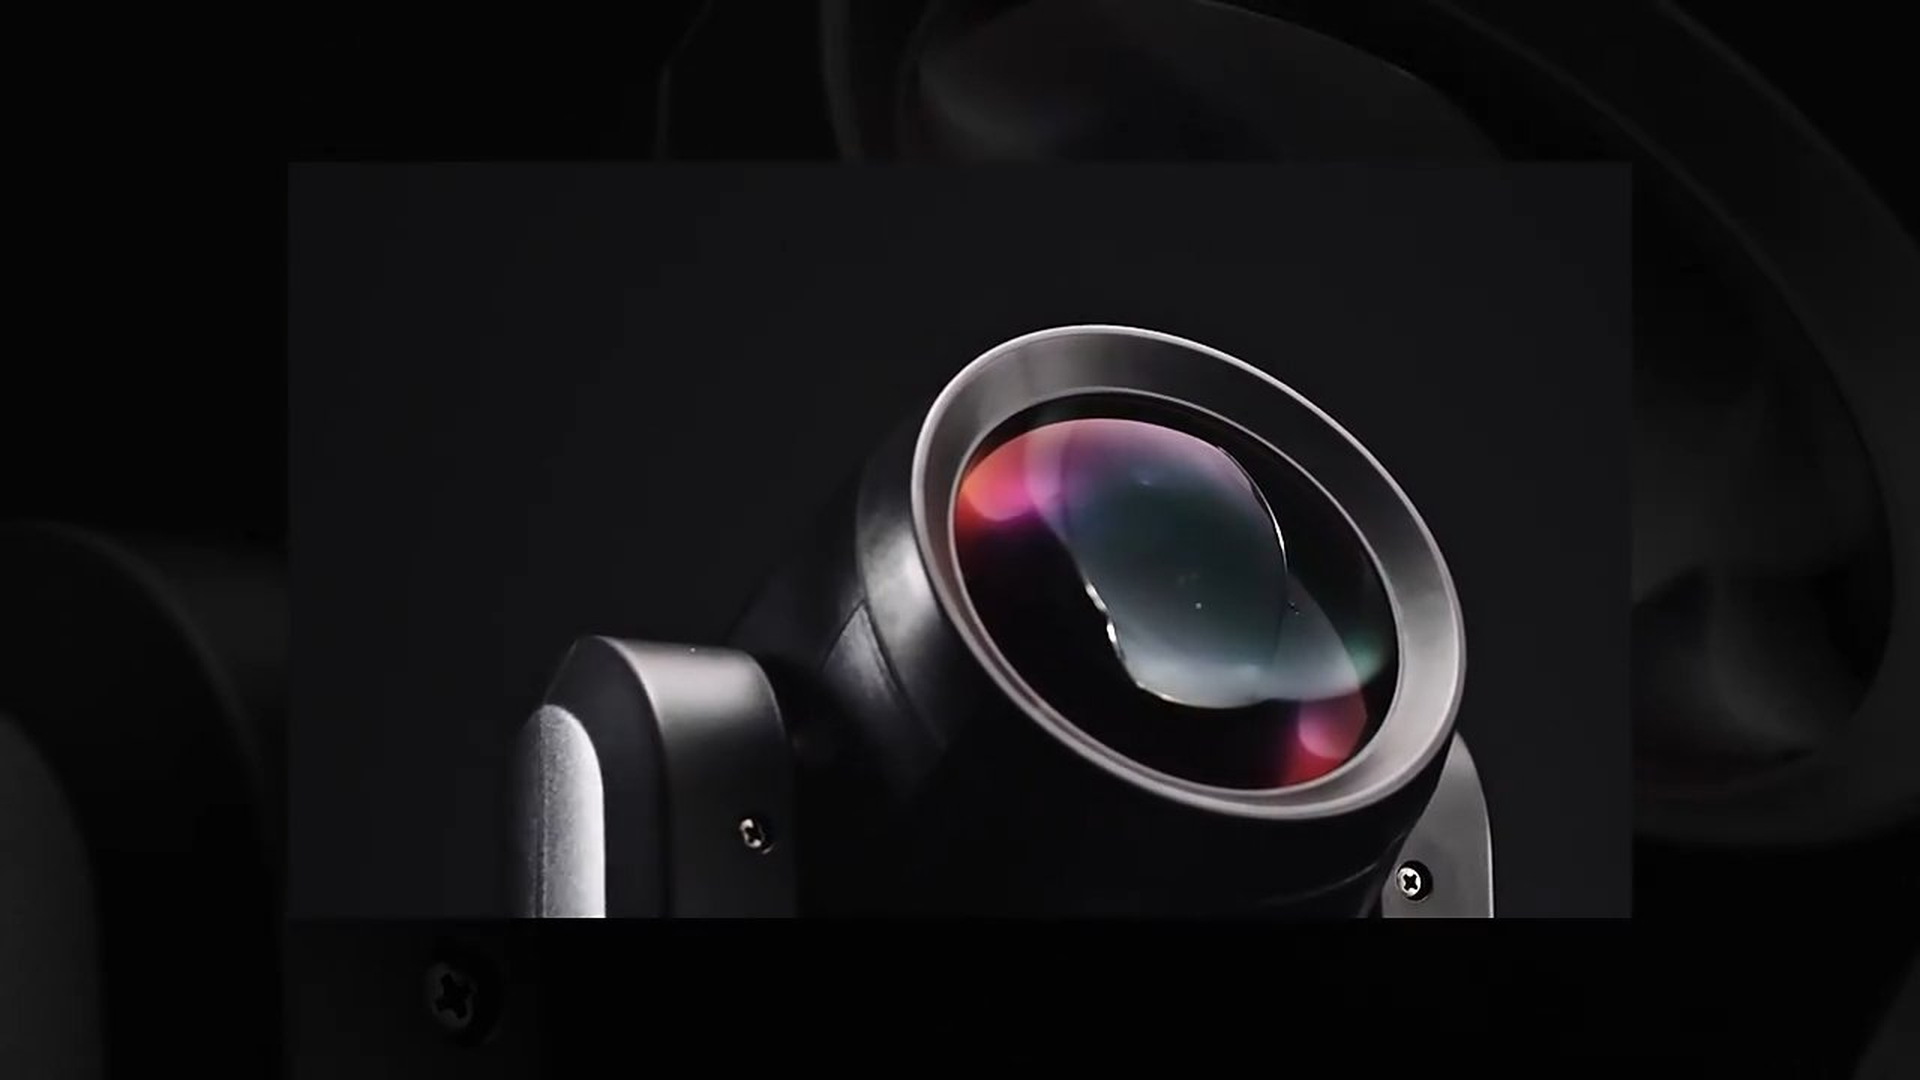
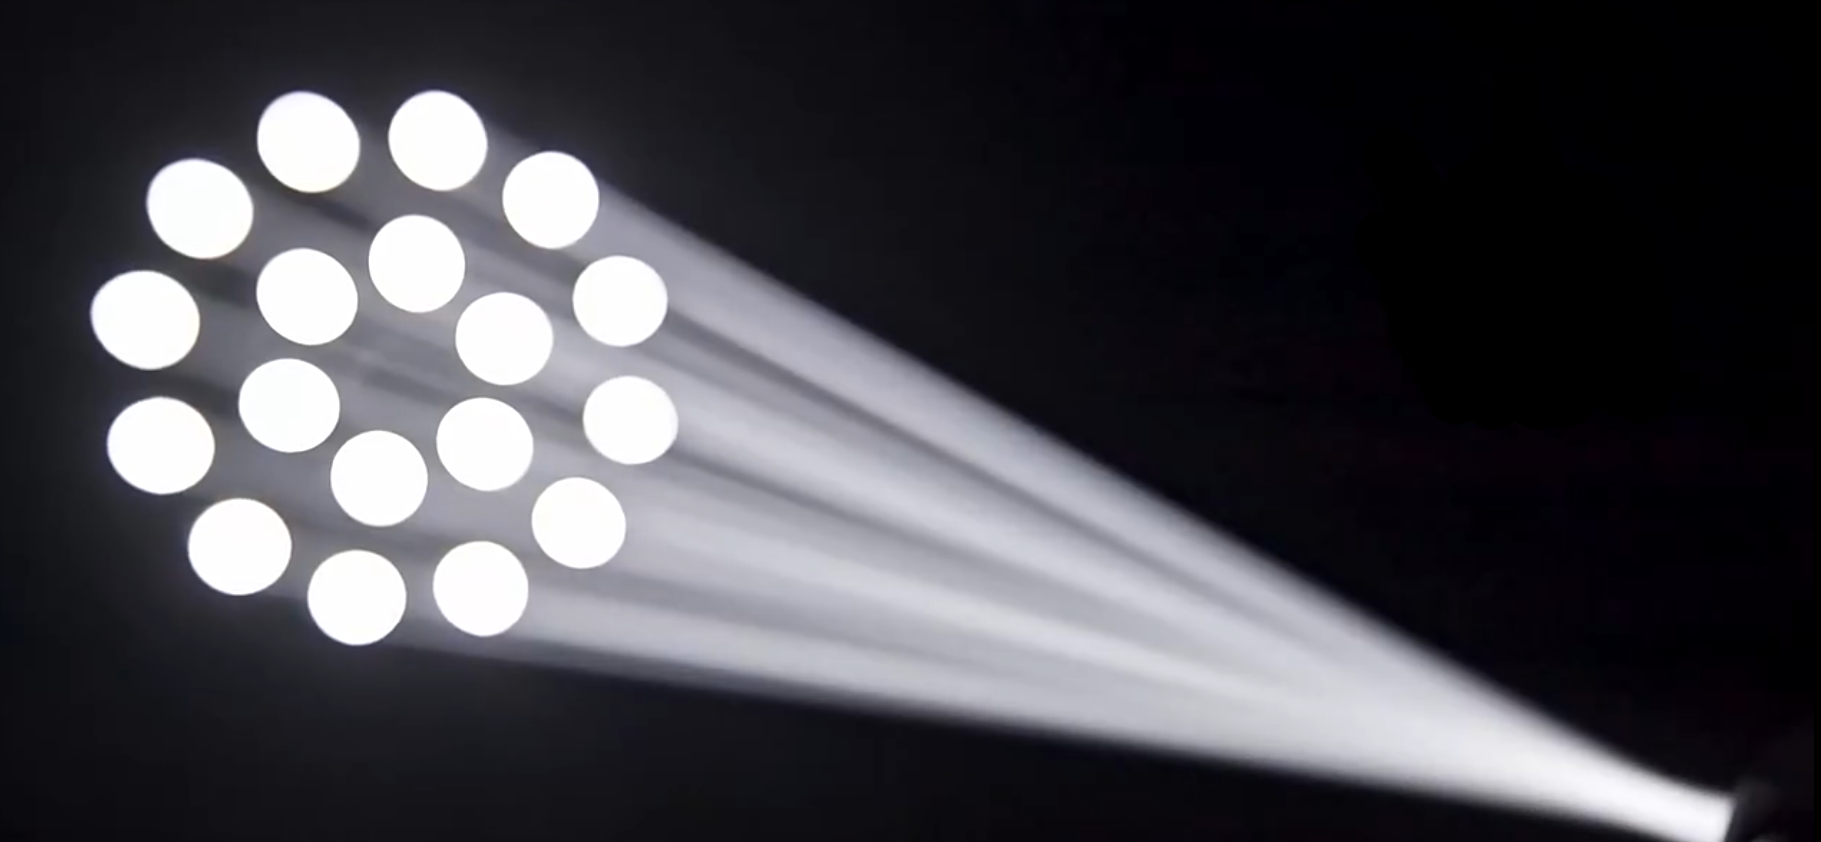
better photos

diff --git a/index.html b/index.html
@@ -62,7 +62,7 @@
 							<source src="images/bg.mp4" type="video/mp4" />
 						</video>
 						<div class="inner">
-							<h2>Sawor </h2>
+							<h2>Sawor</h2>
 							<p>Swiss Quality. Professional Performance.</p>
 						</div>
 					</section>
@@ -76,7 +76,7 @@
 									<a href="#" class="image"><img src="images/120Wroung.jpg" alt="" /></a>
 									<div class="content">
 										<h2 class="major">Introducing the Sawor LED-Beam 120</h2>
-										<p>The Sawor LED-Beam 120 is a compact and versatile moving-head fixture powered by a high-output LED light source. Its narrow beam angle, vibrant color wheel, and prism effects allow the creation of striking aerial looks, dynamic movement, and eye-catching stage effects. </p>
+										<p>The Sawor LED-Beam 120 is a compact and versatile moving-head fixture powered by a high-output LED light source. Its narrow beam angle, vibrant color wheel, and prism effects allow the creation of striking aerial looks, dynamic movement, and eye-catching stage effects.</p>
 										<a href="datasheet.html" class="special">Learn more</a>
 									</div>
 								</div>
@@ -87,7 +87,7 @@
 								<div class="inner">
 									<a href="#" class="image"><img src="images/250Wmain_roun.jpg" alt="" /></a>
 									<div class="content">
-										<h2 class="major"> BSW 250</h2>
+										<h2 class="major">BSW 250</h2>
 										<p>Powerful, versatile and built for demanding productions. The BSW 250 combines razor-sharp beam effects, dynamic gobo projections and smooth wash coverage in one compact fixture. Featuring motorized zoom, rotating gobos, dual prisms and vivid color mixing, it delivers professional performance for stages, clubs, live events and installations.</p>
 										<a href="datasheet-bsw250.html" class="special">Learn more</a>
 									</div>
@@ -99,7 +99,7 @@
 								<div class="inner">
 									<a href="#" class="image"><img src="images/200wround.jpg" alt="" /></a>
 									<div class="content">
-										<h2 class="major"> 200W COB PAR</h2>
+										<h2 class="major">200W COB PAR</h2>
 										<p>Designed for professional stage and event lighting, the 200W COB PAR delivers a powerful, uniform wash with excellent color consistency and smooth dimming performance. Its tunable white LED engine provides flexible color temperatures from warm to cool white, making it ideal for concerts, theatres, houses of worship and installations.</p>
 										<a href="datasheet-cob200.html" class="special">Learn more</a>
 									</div>
@@ -114,8 +114,8 @@
 									<section class="features">
 										<article>
 											<a href="#" class="image"><img src="images/reliability.png" alt="" /></a>
-											<h3 class="major">Reliability </h3>
-											<p>In Switzerland, reliability isn't a feature, it's an expectation. Every Sawor fixture is rigorously tested across real-world scenarios before it ever reaches a stage, so you can perform with confidence every time.</p>
+											<h3 class="major">Reliability</h3>
+											<p>In Switzerland, reliability isn't a feature &mdash; it's an expectation. Every Sawor fixture is rigorously tested across real-world scenarios before it ever reaches a stage, so you can perform with confidence every time.</p>
 											
 										</article>
 										<article>
@@ -126,7 +126,7 @@
 										</article>
 										<article>
 											<a href="#" class="image"><img src="images/value.png" alt="" /></a>
-											<h3 class="major">Value </h3>
+											<h3 class="major">Value</h3>
 											<p>Professional-grade equipment shouldn't be out of reach. Our mission is to deliver Swiss performance at a price that makes excellence accessible.</p>
 											
 										</article>